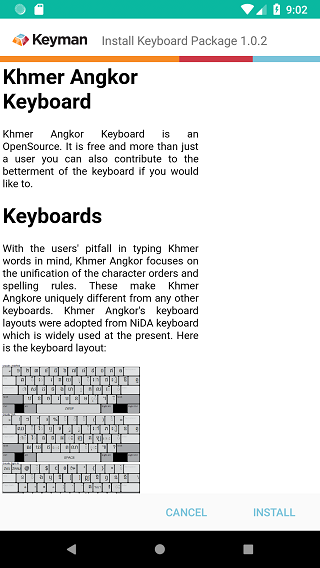
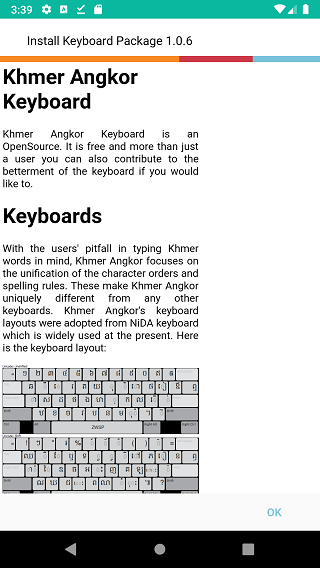
Update 13.0 for installing custom keyboard package
Updated for feature in displaying readme.htm before and welcome.htm after.

diff --git a/products/android/13.0/installing-custom-packages.php b/products/android/13.0/installing-custom-packages.php
@@ -63,29 +63,39 @@ head([
   Older versions of Android grant Storage permissions at app installation time, so those users can skip this step.
 </p>
 <p>
-  Step 4) Keyman for Android will parse the metadata in the package. If the keyboard package includes a "welcome.htm"
+  Step 4) Keyman for Android will parse the metadata in the package. If the keyboard package includes a "readme.htm"
   file, this will be displayed at the confirmation to install the keyboard package.
 </p>
 <p>
-  <img class="phone" id="dist-welcome-ap" src="<?= cdn("img/app/13.0/dist-welcome-ap.png")?>">
-  <img class="tablet" id="dist-welcome-at" src="<?= cdn("img/app/13.0/dist-welcome-at.png")?>">
+  If "readme.htm" is not included, a generic page with the package ID and package version will be shown. Click the
+  "Install" button to install the entire keyboard package.
 </p>
 <p>
-  If "welcome.htm" is not included, a generic page with the package ID and package version will be shown. Click the
-  left "Install" button to install the entire keyboard package.
+  <img class="phone" id="dist-readme-ap" src="<?= cdn("img/app/13.0/dist-readme-ap.png")?>">
+  <img class="tablet" id="dist-readme-at" src="<?= cdn("img/app/13.0/dist-readme-at.png")?>">
 </p>
+
+
 <p>
   Step 5) All the keyboards in the package are installed as a group. In this example, the package only has the
   "Khmer Angkor" keyboard, so it becomes the active keyboard. For custom dictionary packages, only one dictionary
   will be installed.
 </p>
 <p>
+  If the keyboard package includes a "welcome.htm" file, it will be displayed after the keyboard package is installed.
+</p>
+<p>
+  <img class="phone" id="dist-welcome-ap" src="<?= cdn("img/app/13.0/dist-welcome-ap.png")?>">
+  <img class="tablet" id="dist-welcome-at" src="<?= cdn("img/app/13.0/dist-welcome-at.png")?>">
+</p>
+<p>
+  Click the "OK" button to finish installing the keyboard. You should be able to use it as normal.
+</p>
+<p>
   <img class="phone" id="dist-install1-ap" src="<?= cdn("img/app/13.0/dist-install1-ap.png")?>">
   <img class="tablet" id="dist-install1-at" src="<?= cdn("img/app/13.0/dist-install1-at.png")?>">
 </p>
 <p>
-  Once the keyboard has been installed, you should be able to use it as normal.
-  <br/>
   To learn how to create a custom installable keyboard,
   <a href="https://help.keyman.com/developer/12.0/guides/distribute/">click here</a>.
 </p>

diff --git a/products/android/13.0/index.php b/products/android/13.0/index.php
@@ -113,6 +113,10 @@ head([
     <td><img id="settings-ap" src="<?= cdn("img/app/13.0/settings-a.png")?>"></td>
     <td>Open the Keyman Settings screen</td>
   </tr>
+  <tr>
+    <td><img id="cloud-download-ap" src="<?= cdn("img/app/13.0/ic_cloud_download.png")?>"></td>
+    <td>Update available to download for keyboard / dictionary</td>
+  </tr>
 </table>
 
 <h2>Accessing Keyboard Help</h2>
